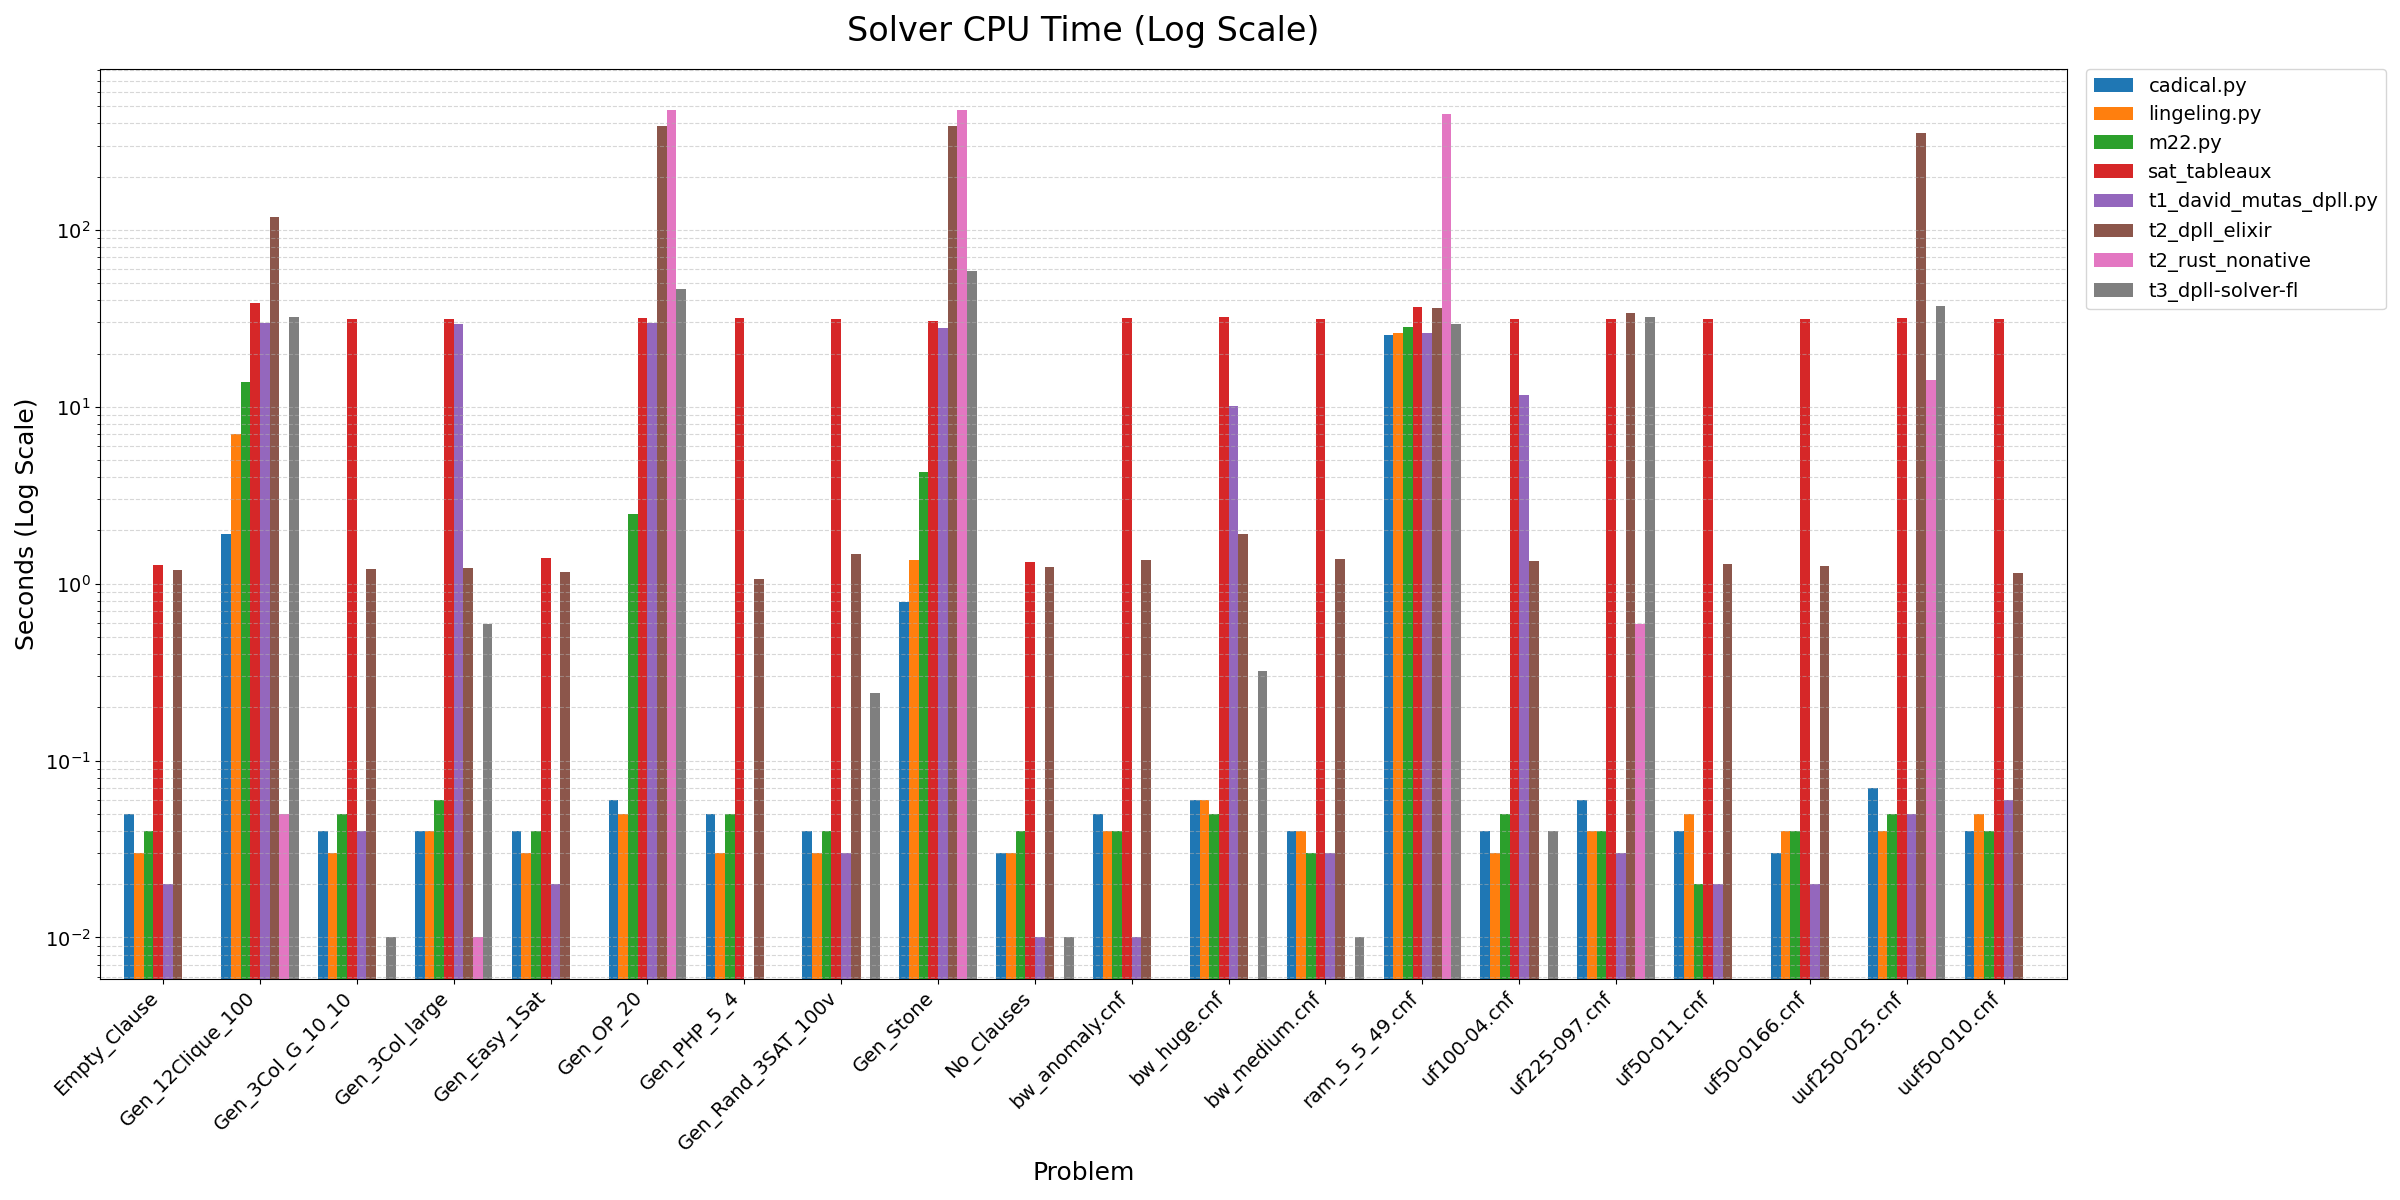
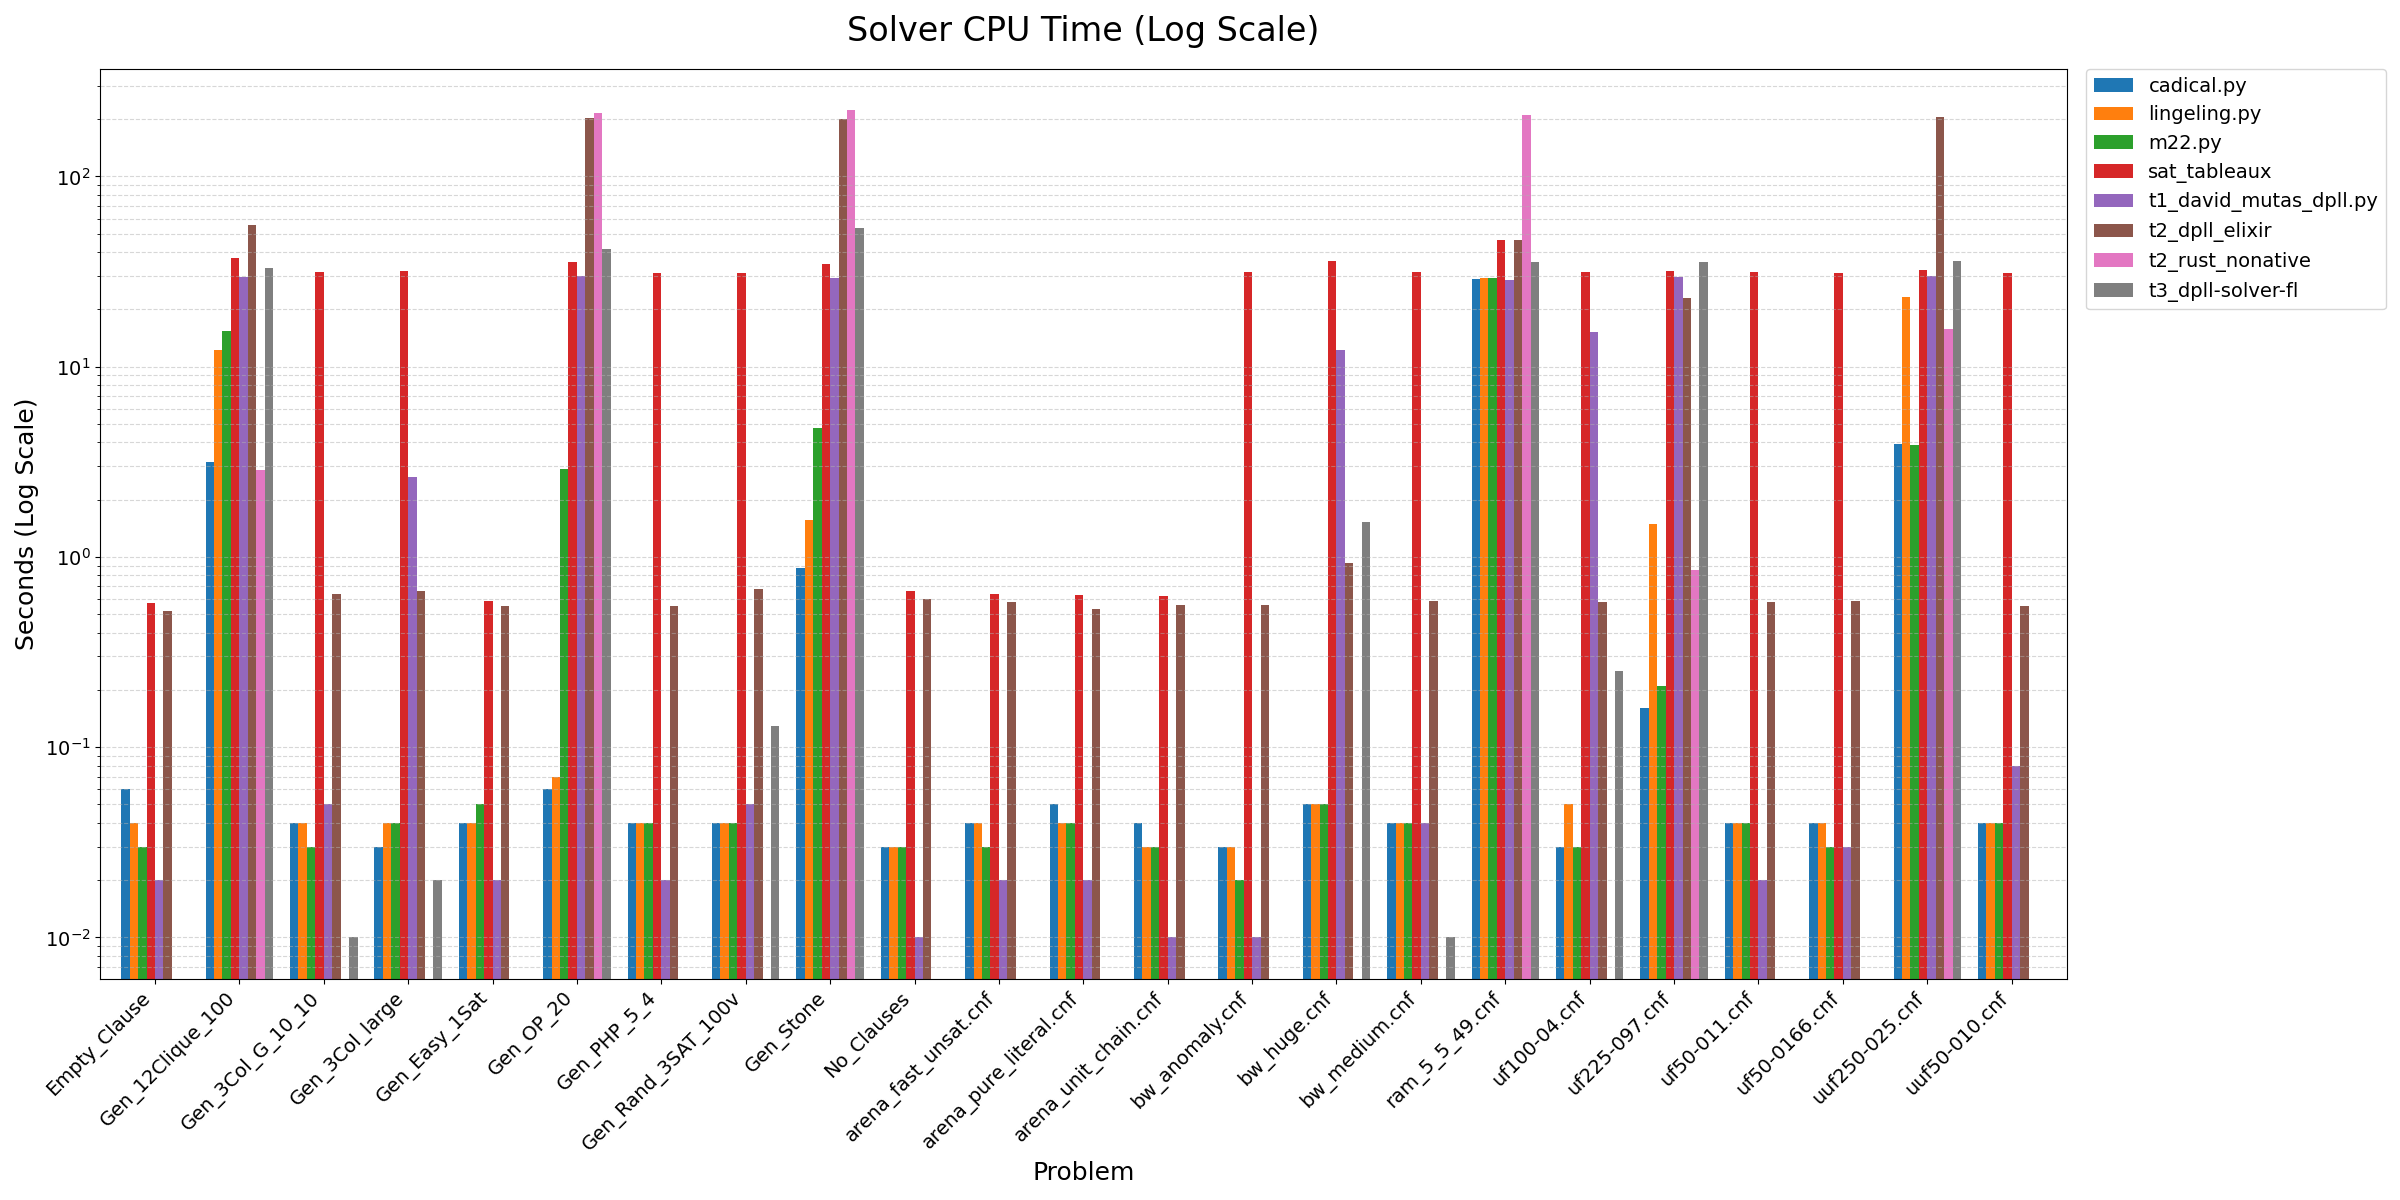
add results and additional problems from first competition

Changed region(s): [[0.0, 0.0925, 0.875, 0.9558]]

diff --git a/runner.py b/runner.py
@@ -371,4 +371,3 @@ def run_benchmark():
 
 if __name__ == "__main__":
     run_benchmark()
-    # subprocess.run(["streamlit", "run", "/app/dashboard.py"])
